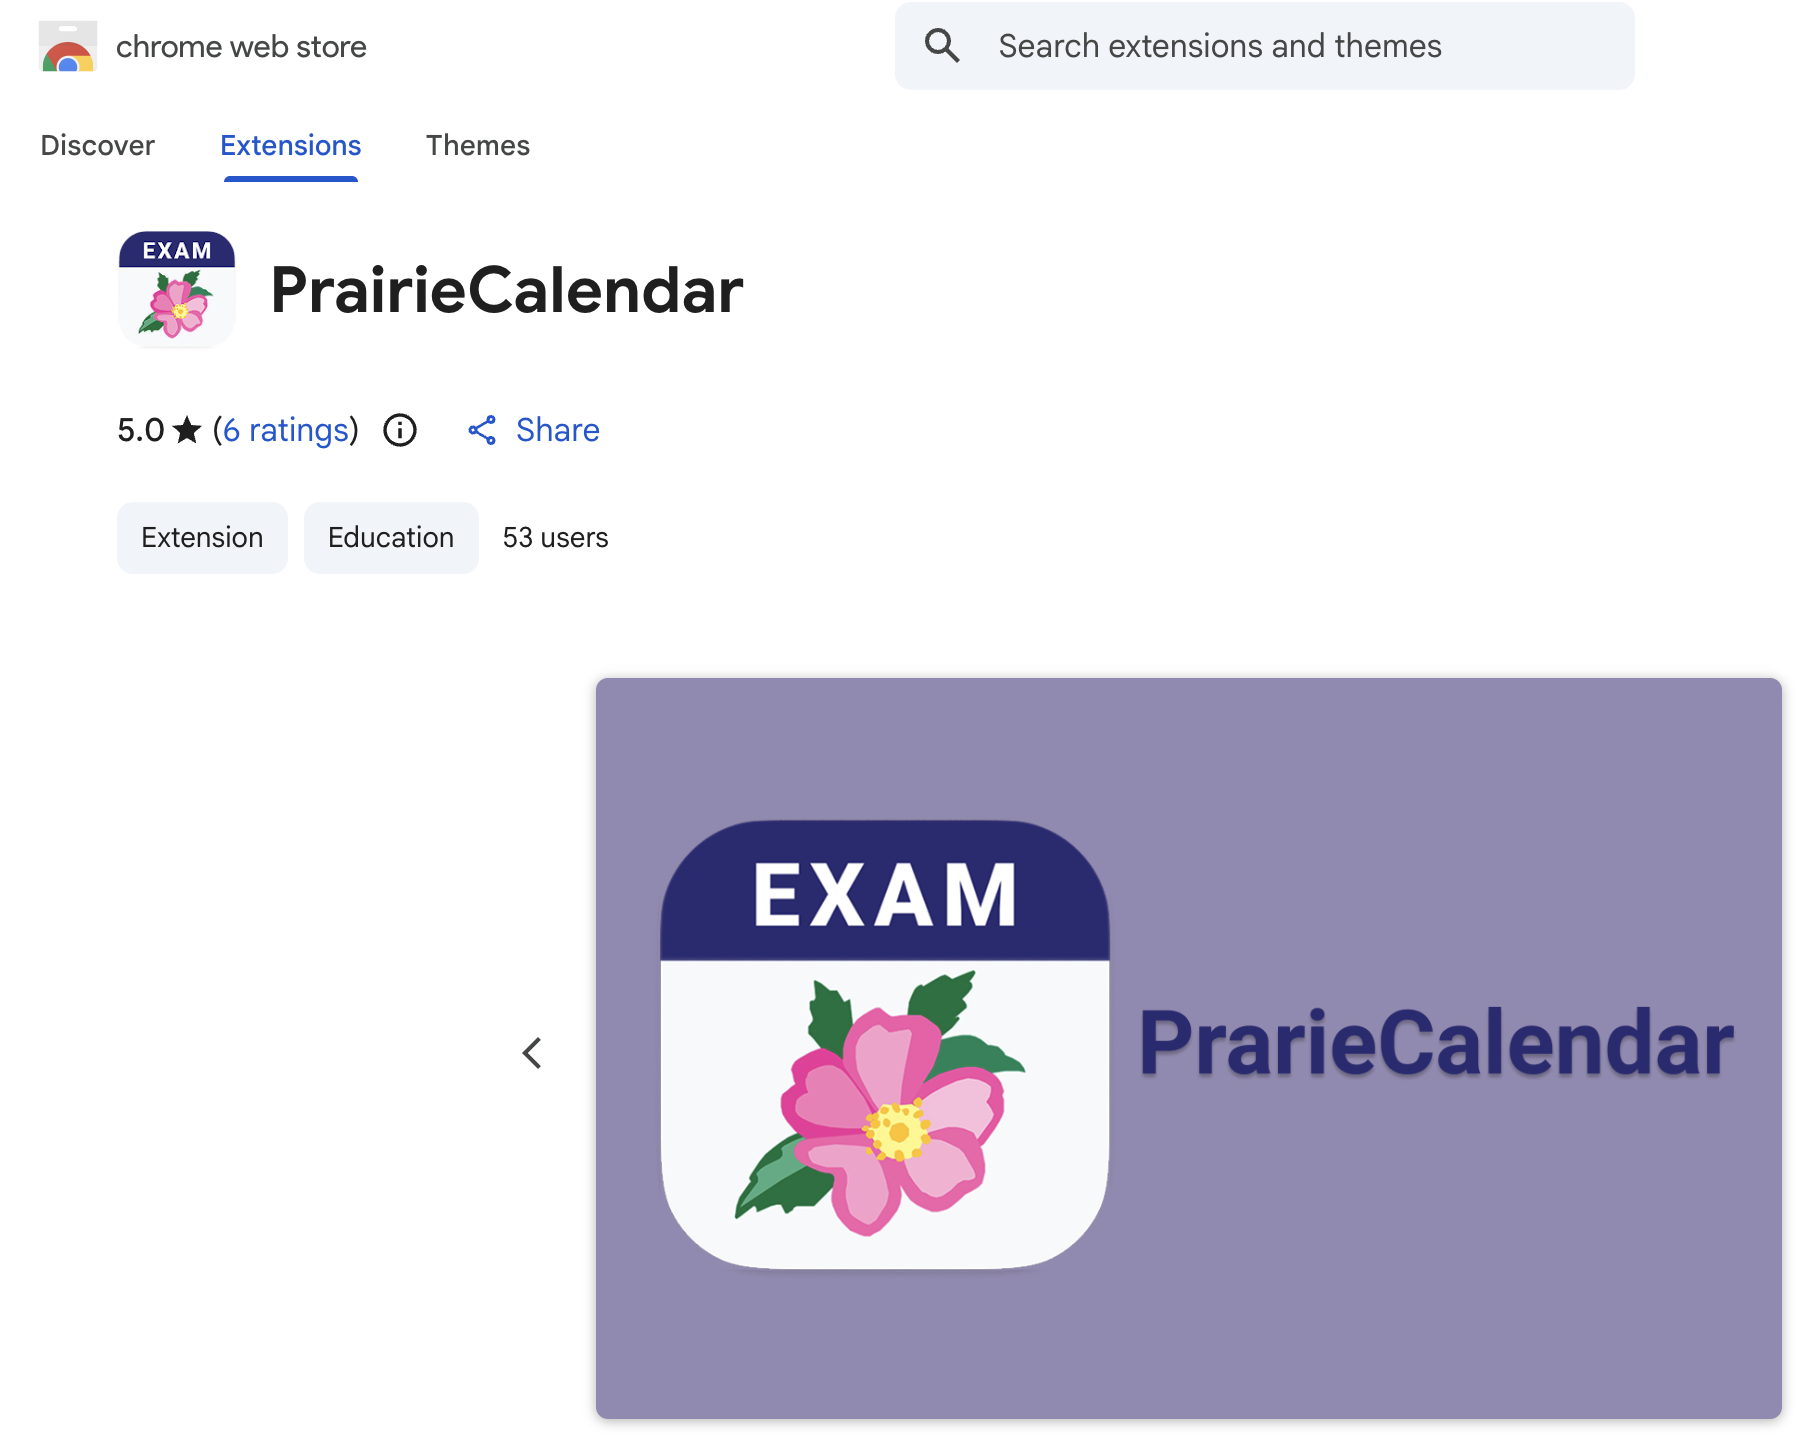
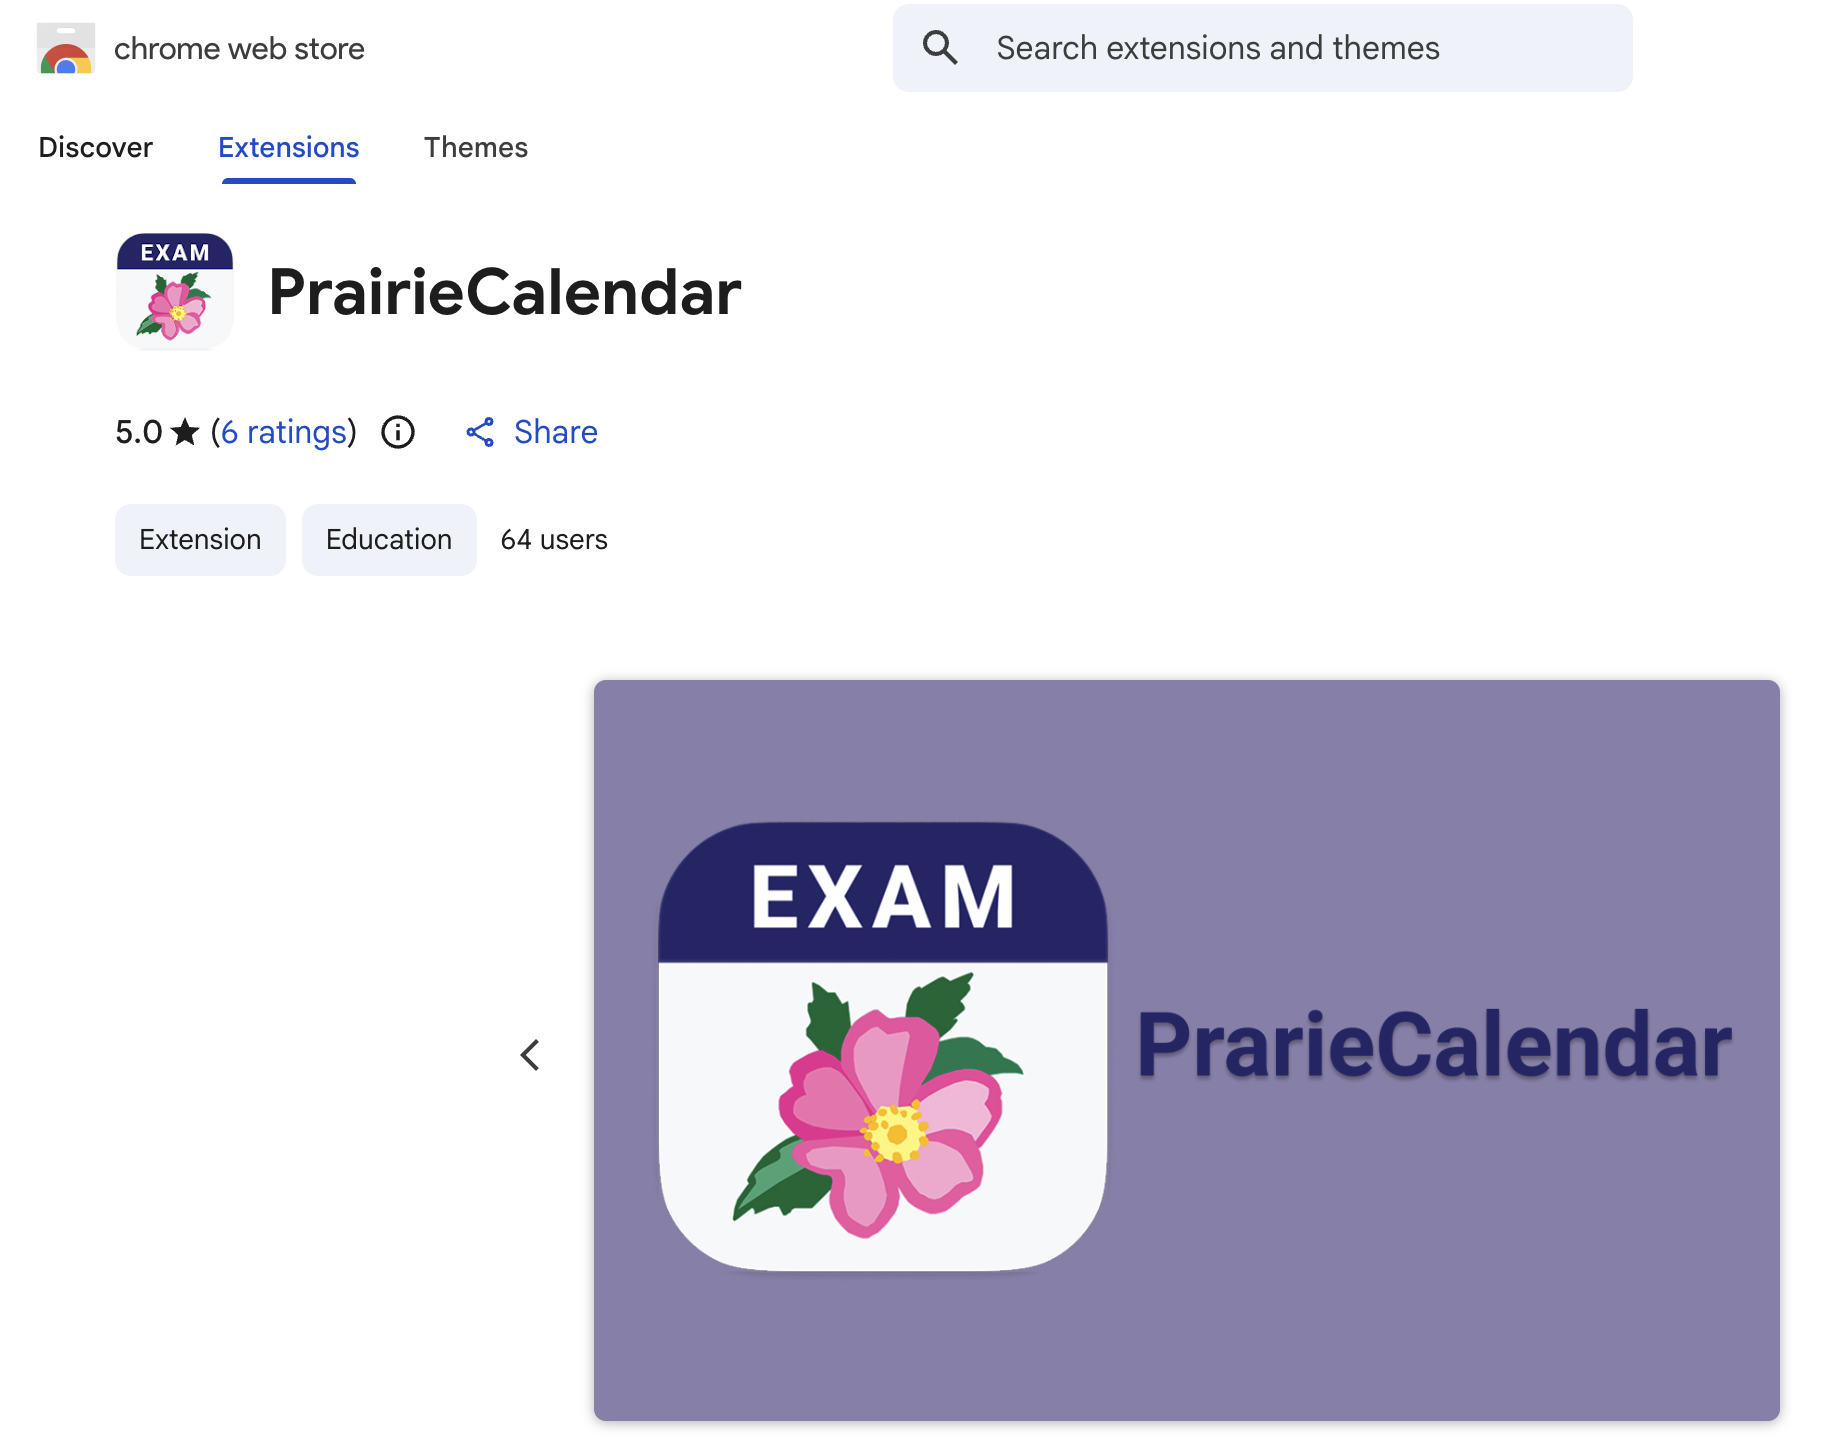
Update PrairieCalendar to 64 users and refresh Web Store screenshot

diff --git a/src/data/projects.ts b/src/data/projects.ts
@@ -105,7 +105,7 @@ export const projects: Project[] = [
 		slug: "prairiecalendar",
 		title: "PrairieCalendar",
 		year: "2025-",
-		statusLabel: "Shipped · 53 Users",
+		statusLabel: "Shipped · 64 Users",
 		eyebrow: "Side",
 		meta: "Side · 2025-",
 		desc: "Chrome extension exporting PrairieTest exam schedules to Google Calendar and ICS.",
@@ -114,10 +114,10 @@ export const projects: Project[] = [
 		href: "/projects/prairiecalendar",
 		detail: {
 			kicker: "Side Project · Live in the Chrome Web Store · 2025-",
-			lede: "Chrome extension exporting booked PrairieTest exams to Google Calendar or an ICS file. Live in the Web Store with 53 users.",
+			lede: "Chrome extension exporting booked PrairieTest exams to Google Calendar or an ICS file. Live in the Web Store with 64 users.",
 			stats: [
 				{ label: "Exports", value: "Google Calendar + ICS" },
-				{ label: "Users", value: "53" },
+				{ label: "Users", value: "64" },
 				{ label: "Status", value: "Live" },
 			],
 			narrative: [
@@ -133,8 +133,8 @@ export const projects: Project[] = [
 				},
 				{
 					label: "03 · Result",
-					title: "53 users, rated 5.0",
-					body: "Shipped to the Chrome Web Store with 53 users and a 5.0 star rating across 6 reviews. Eighteen automated tests cover timestamp parsing, ICS generation, and Google export across several timezone settings.",
+					title: "64 users, rated 5.0",
+					body: "Shipped to the Chrome Web Store with 64 users and a 5.0 star rating across 6 reviews. Eighteen automated tests cover timestamp parsing, ICS generation, and Google export across several timezone settings.",
 				},
 			],
 			links: [{ label: "GitHub ↗", href: "https://github.com/Jade-ok/PrairieCalendar" }],

diff --git a/src/data/projectDetails.ts b/src/data/projectDetails.ts
@@ -254,9 +254,9 @@ export const projectDetails: Record<string, ProjectDetailContent> = {
 		index: "/03",
 		eyebrow: "SIDE PROJECT · LIVE IN THE CHROME WEB STORE · 2025 —",
 		title: "PrairieCalendar",
-		lede: "A Chrome extension that sends booked PrairieTest exams to Google Calendar or an ICS file. It is live in the Chrome Web Store with 53 users and a 5.0 rating.",
+		lede: "A Chrome extension that sends booked PrairieTest exams to Google Calendar or an ICS file. It is live in the Chrome Web Store with 64 users and a 5.0 rating.",
 		metrics: [
-			{ value: "53", label: "USERS", emphasis: true },
+			{ value: "64", label: "USERS", emphasis: true },
 			{ value: "5.0", label: "RATING · 6 REVIEWS" },
 			{ value: "18", label: "AUTOMATED TESTS" },
 		],
@@ -343,7 +343,7 @@ export const projectDetails: Record<string, ProjectDetailContent> = {
 			},
 			{
 				src: "/project-img/prairiecalendar-img/webstore.png",
-				alt: "PrairieCalendar listing on the Chrome Web Store, showing a 5.0 star rating and the installed user count",
+				alt: "PrairieCalendar listing on the Chrome Web Store, showing 64 users and a 5.0 star rating across 6 ratings",
 				caption: "Live on the Chrome Web Store",
 				after: "next",
 			},
